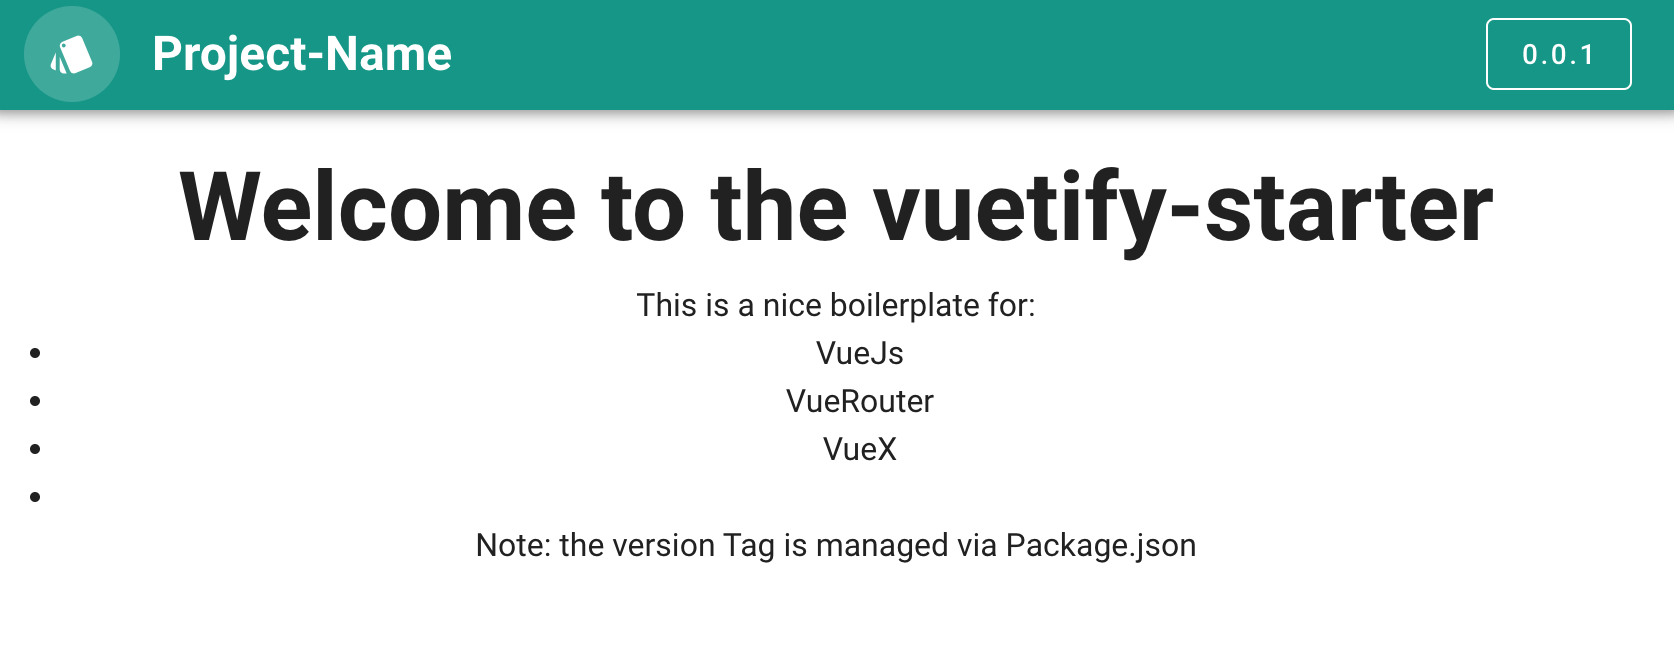
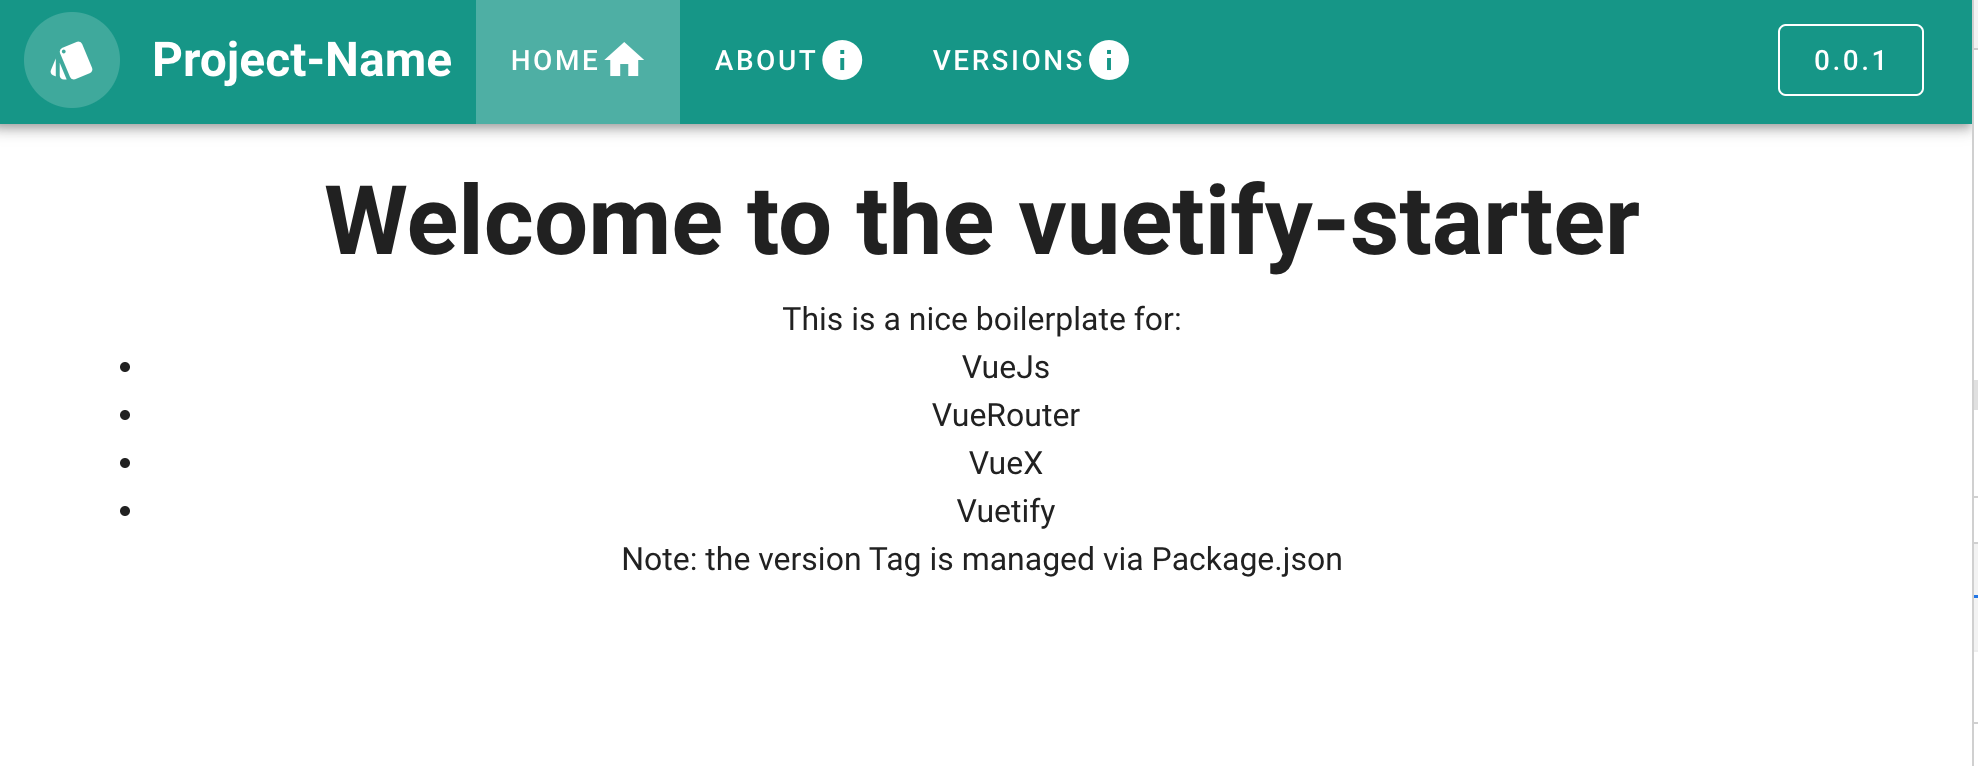
fix version and ner screenshot

diff --git a/src/components/core/Header.vue b/src/components/core/Header.vue
@@ -67,7 +67,7 @@
       <v-btn
         class="ma-2"
         outlined
-        :to="{ name: 'Version'}"
+        :to="{ name: 'Versions'}"
         exact
       >
         {{ appVersion }}
@@ -105,9 +105,9 @@ export default {
           routeName: 'About',
         },
         {
-          title: 'Version',
+          title: 'Versions',
           icon: 'mdi-information',
-          routeName: 'Version',
+          routeName: 'Versions',
         },
       ],
     };

diff --git a/src/router/routes.js b/src/router/routes.js
@@ -1,5 +1,5 @@
 import Home from '@/views/Home.vue';
-import Version from '@/views/Version.vue';
+import Versions from '@/views/Versions.vue';
 
 const routes = [
   {
@@ -8,9 +8,9 @@ const routes = [
     component: Home,
   },
   {
-    path: '/version',
-    name: 'Version',
-    component: Version,
+    path: '/versions',
+    name: 'Versions',
+    component: Versions,
   },
   {
     path: '/about',

diff --git a/src/views/Versions.vue b/src/views/Versions.vue
@@ -1,6 +1,14 @@
 <template>
   <div class="about">
     <h1>This is an Versioning page</h1>
+    <p>
+      If you don't need a version, delete
+      <ul>
+        <li>the page</li>
+        <li>the env-Variable (injected via vue.confog.js)</li>
+        <li>and the VueX entry</li>
+      </ul>
+    </p>
   </div>
 </template>
 
